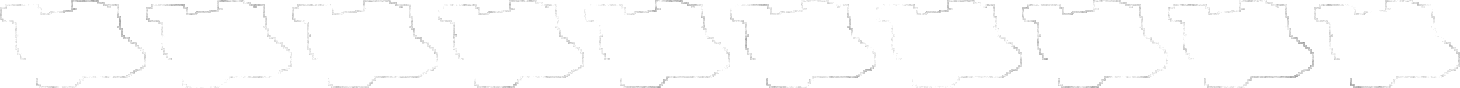
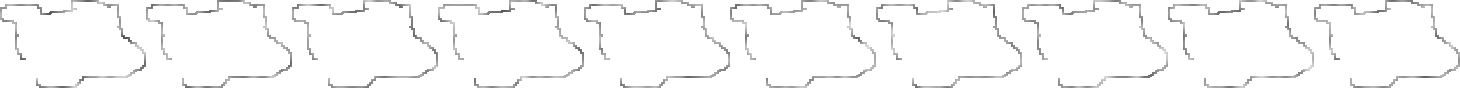
Shield animation

diff --git a/MeteoxQuest/shield.cpp b/MeteoxQuest/shield.cpp
@@ -3,7 +3,7 @@
 #include "player.h"
 
 sf::Texture* Shield::shield_texture;
-const float Shield::frame_delay_ = 0.01f;
+const float Shield::frame_delay_ = 0.1f;
 const float Shield::movespeed_ = 0;
 const sf::Vector2f Shield::size_ = sf::Vector2f(146, 88);
 
@@ -22,28 +22,13 @@ Shield::Shield(Player* player)
 	)
 	, player_(player)
 {
-	sf::Color color;
-	switch(color_)
-	{
-		case BLUE:
-			color = sf::Color::Blue;
-			break;
-		case RED:
-			color = sf::Color::Red;
-			break;
-		case GREEN:
-			color = sf::Color::Green;
-			break;
-		default:
-			color = sf::Color::White;
-			break;
-	}
-	setColor(color);
+	set_color_to_match();
 }
 
-void Shield::update(const float delta_time)
+void Shield::update(const float delta_time, LevelBase* level)
 {
 	setPosition(player_->getPosition());
+	GameObject::update(delta_time, level);
 }
 
 void Shield::handle_collision(GameObject* other, LevelBase* level)
@@ -51,5 +36,9 @@ void Shield::handle_collision(GameObject* other, LevelBase* level)
 }
 
 void Shield::on_death(LevelBase* level)
+{
+}
+
+void Shield::handle_edge()
 {
 }

diff --git a/MeteoxQuest/game_object.cpp b/MeteoxQuest/game_object.cpp
@@ -151,6 +151,27 @@ int GameObject::get_damage() const
 	return damage_;
 }
 
+void GameObject::set_color_to_match()
+{
+	sf::Color color;
+	switch(color_)
+	{
+		case BLUE:
+			color = sf::Color::Blue;
+			break;
+		case RED:
+			color = sf::Color::Red;
+			break;
+		case GREEN:
+			color = sf::Color::Green;
+			break;
+		default:
+			color = sf::Color::White;
+			break;
+	}
+	setColor(color);
+}
+
 bool GameObject::is_at_edge()
 {
 	const sf::Vector2f current_pos = getPosition();

diff --git a/MeteoxQuest/shield.h b/MeteoxQuest/shield.h
@@ -7,11 +7,12 @@ class Shield : public GameObject
 {
 public:
 	Shield(Player* player);
-	void update(const float delta_time);
+	void update(const float delta_time, LevelBase* level) override;
 	static sf::Texture* shield_texture;
 protected:
 	void handle_collision(GameObject* other, LevelBase* level) override;
 	void on_death(LevelBase* level) override;
+	void handle_edge() override;
 private:
 	static const sf::Vector2f size_;
 	static const int no_frames_ = 10;

diff --git a/MeteoxQuest/game_object.h b/MeteoxQuest/game_object.h
@@ -48,6 +48,7 @@ public:
 	void add_effector(Effector* effector);
 	int get_life() const;
 	int get_damage() const;
+	void set_color_to_match();
 protected:
 	virtual void handle_collision(GameObject* other, LevelBase* level) = 0;
 	virtual bool is_at_edge();

diff --git a/MeteoxQuest/level_base.cpp b/MeteoxQuest/level_base.cpp
@@ -114,7 +114,7 @@ void LevelBase::update(const float delta_time)
 
 	//Update shield
 	if(player_->shield_exists())
-		player_->get_shield()->update(delta_time);
+		player_->get_shield()->update(delta_time, this);
 
 	//Update FPS
 	fps_timer_ += delta_time;
